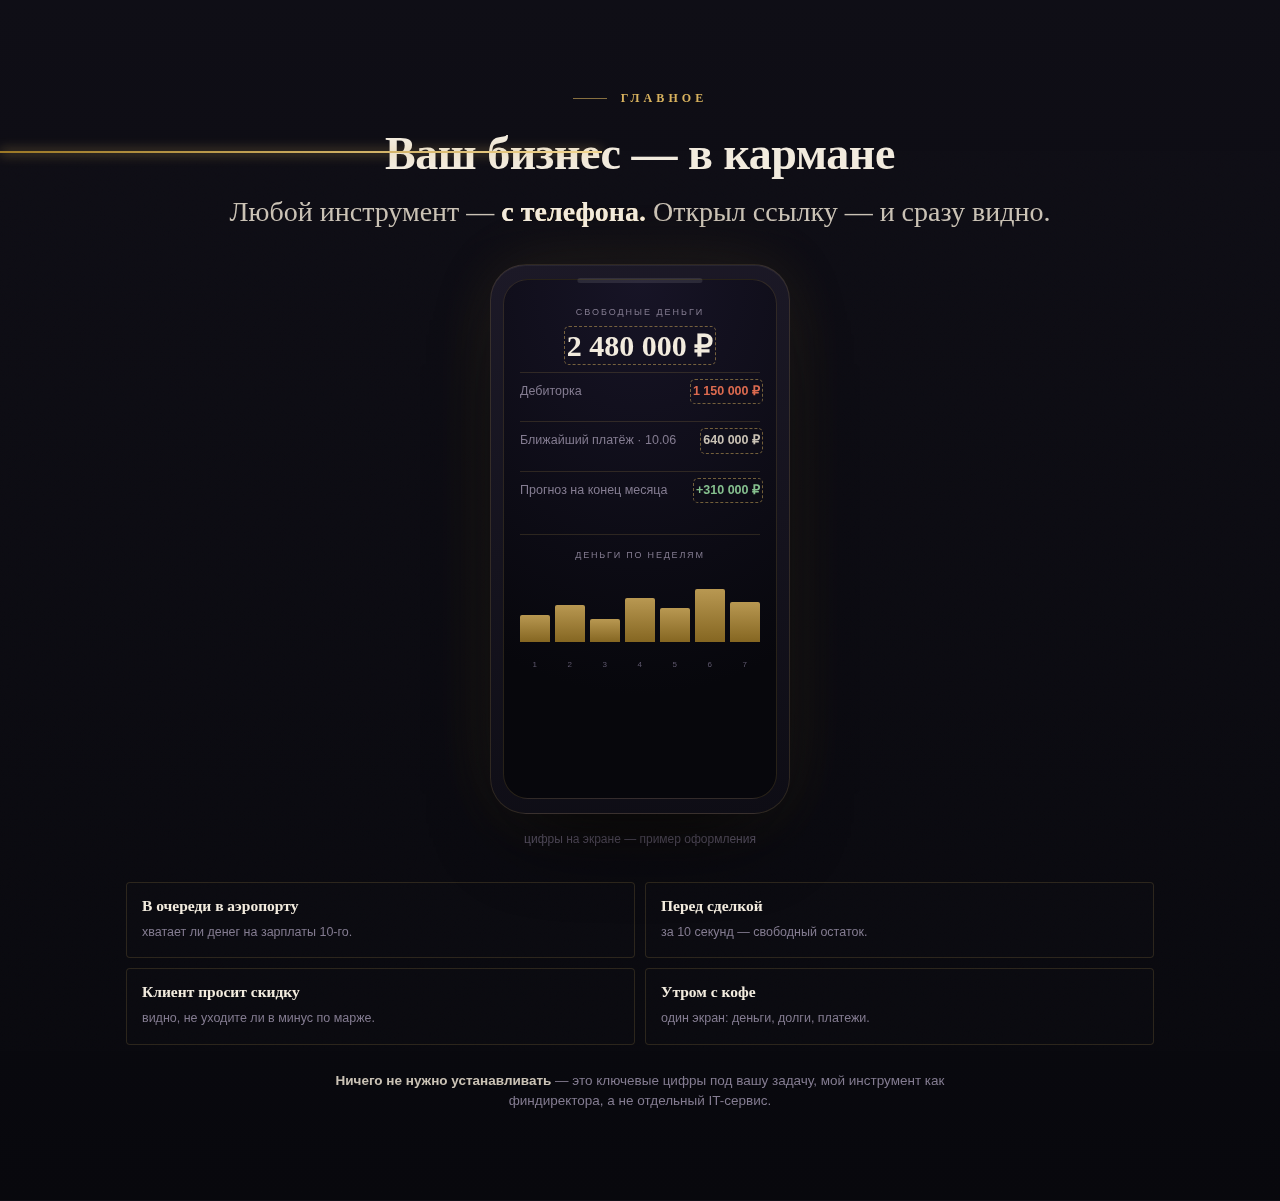
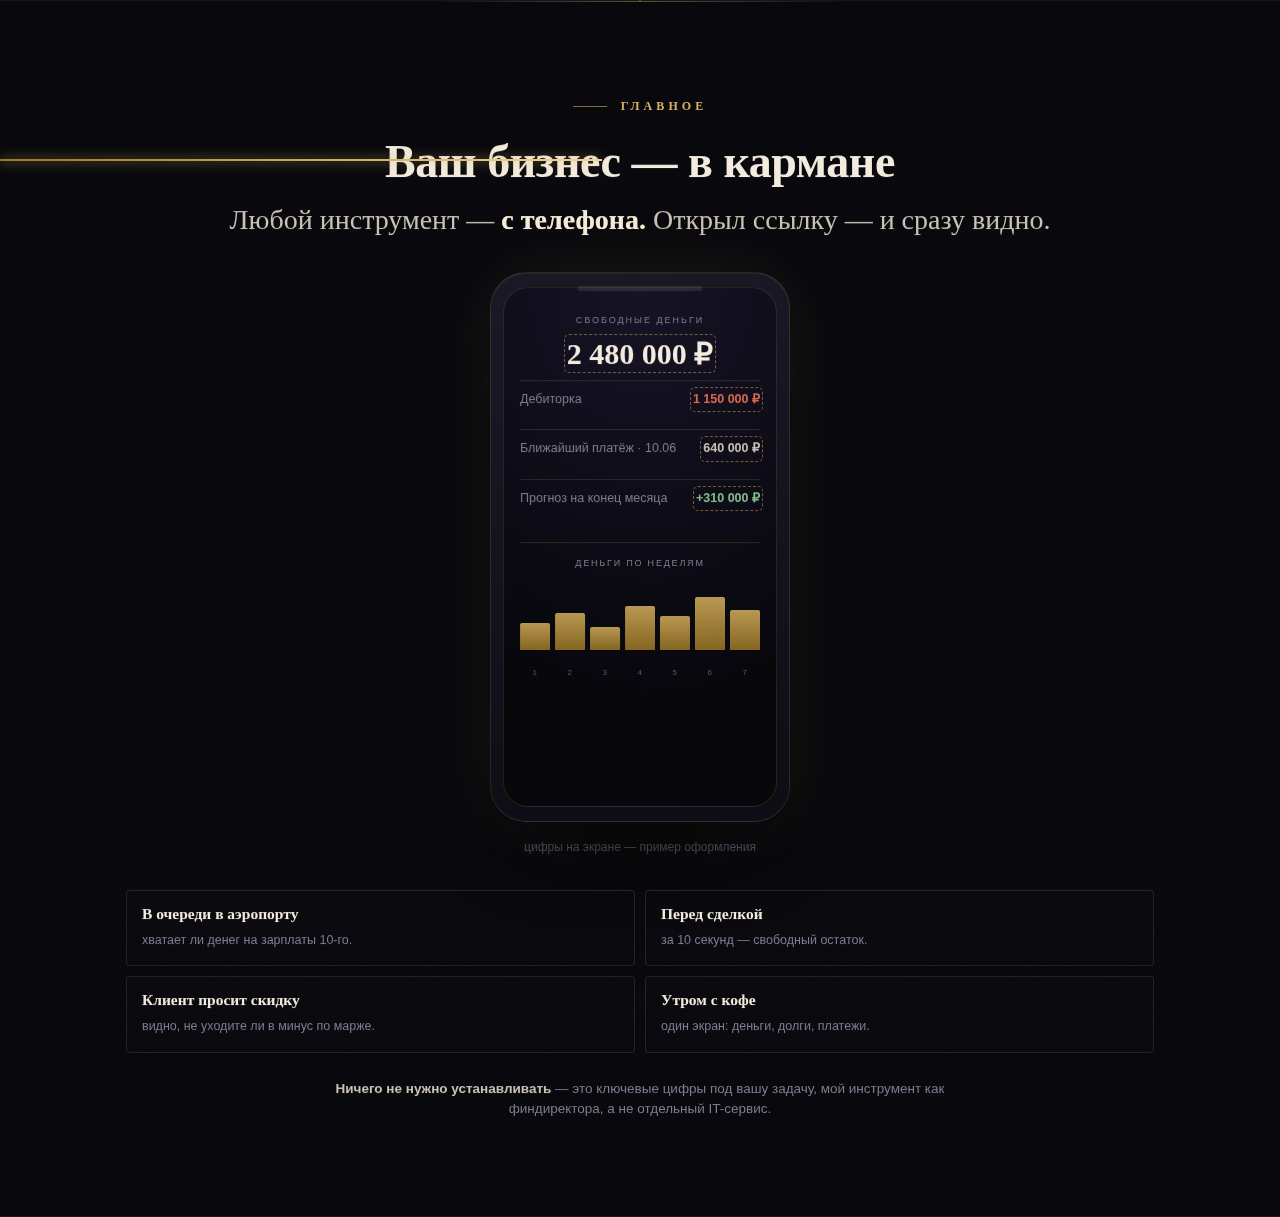
Section rhythm within the dark palette (no light sections)
Sections blended into one dark mass. Add deliberate rhythm — staying
fully finance-noir (dark + gold only):
- Alternate section depth: graphite (linear ink-2 → ink) ↔ near-black
  (void), every other section, so adjacent blocks read as distinct
  panels without any light/coloured backgrounds.
- Delicate gold dividers at a few joins (#core/#pocket/#tariffs/#faq):
  faded hairline + centred ✦ that 'breathes' between blocks.
- Slightly more air on the seams: section padding clamp(46-88) →
  clamp(54-96). Height barely moves (11418 → 11619px), the earlier
  cut is preserved.
Content and section order untouched — visual rhythm only.

screenshots: regenerate + add rhythm-1..4 boundary frames.

diff --git a/index.html b/index.html
@@ -31,7 +31,17 @@
   h1,h2,h3,.serif{font-family:'Playfair Display',serif;line-height:1.02;letter-spacing:-.01em}
   .wrap{max-width:1080px;margin:0 auto;padding:0 26px;position:relative;z-index:3}
   .narrow{max-width:780px}
-  section{padding:clamp(46px,8vw,88px) 0;position:relative}
+  section{padding:clamp(54px,8.5vw,96px) 0;position:relative}
+
+  /* ===== РИТМ СЕКЦИЙ: чередование глубины тёмного + деликатные разделители ===== */
+  /* графитовая секция — заметно глубже void, но остаётся тёмной */
+  .tone-b{background:linear-gradient(180deg,var(--ink-2),var(--ink))}
+  /* «дыхание» на стыке: золотой хайрлайн с затуханием к краям + засечка ✦ по центру */
+  .sep-top::after{content:"";position:absolute;top:0;left:50%;transform:translateX(-50%);
+    width:min(440px,72%);height:1px;z-index:4;
+    background:linear-gradient(90deg,transparent,rgba(216,178,94,.42) 50%,transparent)}
+  .sep-top::before{content:"✦";position:absolute;top:-9px;left:50%;transform:translateX(-50%);
+    z-index:4;color:var(--gold);font-size:12px;opacity:.7;line-height:1}
   .gold-text{background:linear-gradient(110deg,var(--gold-bright),var(--gold) 45%,var(--gold-deep));
     -webkit-background-clip:text;background-clip:text;color:transparent}
   .kick{font-family:'Manrope';font-size:12px;font-weight:700;letter-spacing:.34em;text-transform:uppercase;
@@ -115,13 +125,13 @@
   .manifesto .hl{font-style:italic}
 
   /* ============ СНЯТИЕ СТЫДА ============ */
-  .shame{background:linear-gradient(180deg,var(--coal),var(--void))}
+  .shame{background:var(--void)}
   .shame p{font-family:'Playfair Display';font-size:clamp(20px,3.4vw,32px);font-weight:500;
     line-height:1.42;color:var(--cream-dim);max-width:780px}
   .shame b{color:var(--cream);font-weight:700}
 
   /* ============ ЯДРО — МИНИ-АУДИТ ============ */
-  .core{background:linear-gradient(180deg,var(--void),var(--coal))}
+  .core{background:linear-gradient(180deg,var(--ink-2),var(--ink))}
   .core-grid{display:grid;grid-template-columns:1fr 1fr;gap:48px;align-items:start}
   @media(max-width:880px){.core-grid{grid-template-columns:1fr;gap:36px}}
 
@@ -242,7 +252,7 @@
   .get span{font-size:12.5px;color:var(--muted);line-height:1.4}
 
   /* ============ В КАРМАНЕ + МОКАП ============ */
-  .pocket{background:linear-gradient(180deg,var(--coal),var(--void));text-align:center}
+  .pocket{background:var(--void);text-align:center}
   .pocket .kick{justify-content:center}
   .pocket-lead{font-family:'Playfair Display';font-size:clamp(19px,3.4vw,28px);font-weight:500;
     color:var(--cream-dim);margin-bottom:30px}
@@ -518,7 +528,7 @@
 </section>
 
 <!-- ====== БОЛЬ ====== -->
-<section class="manifesto" id="s1">
+<section class="manifesto tone-b" id="s1">
   <div class="wrap narrow">
     <p class="reveal" data-rv="up">
       Деньги редко уходят разом. <b>Они задерживаются тихо</b>, пока вы заняты делом:
@@ -540,7 +550,7 @@
 </section>
 
 <!-- ====== ЯДРО: МИНИ-АУДИТ ====== -->
-<section class="core" id="core">
+<section class="core sep-top" id="core">
   <div class="wrap">
     <div class="kick">Экспресс-диагностика</div>
     <h2 class="serif reveal" data-rv="left"
@@ -638,7 +648,7 @@
 </section>
 
 <!-- ====== ЧТО ВЫ ПОЛУЧАЕТЕ (объединённый блок) ====== -->
-<section style="background:linear-gradient(180deg,var(--void),var(--coal))" id="tools">
+<section class="tone-b" id="tools">
   <div class="wrap">
     <div class="kick">Результат</div>
     <h2 class="serif reveal" data-rv="left"
@@ -660,7 +670,7 @@
 </section>
 
 <!-- ====== ВАШ БИЗНЕС — В КАРМАНЕ ====== -->
-<section class="pocket" id="pocket">
+<section class="pocket sep-top" id="pocket">
   <div class="wrap">
     <div class="kick">Главное</div>
     <h2 class="serif reveal" data-rv="up"
@@ -702,7 +712,7 @@
 </section>
 
 <!-- ====== AI-АВТОМАТИЗАЦИЯ ====== -->
-<section style="background:linear-gradient(180deg,var(--coal),var(--void))" id="ai">
+<section class="tone-b" id="ai">
   <div class="wrap">
     <div class="kick">AI-автоматизация</div>
     <h2 class="serif reveal" data-rv="left"
@@ -726,7 +736,7 @@
 </section>
 
 <!-- ====== КАК РАБОТАЕМ ====== -->
-<section style="background:linear-gradient(180deg,var(--void),var(--coal))" id="process">
+<section id="process">
   <div class="wrap narrow">
     <div class="kick">Процесс</div>
     <h2 class="serif reveal" data-rv="left"
@@ -748,7 +758,7 @@
 </section>
 
 <!-- ====== ТАРИФЫ ====== -->
-<section id="tariffs">
+<section class="tone-b sep-top" id="tariffs">
   <div class="wrap">
     <div class="kick">Форматы работы</div>
     <h2 class="serif reveal" data-rv="left"
@@ -839,7 +849,7 @@
 </section>
 
 <!-- ====== FAQ ====== -->
-<section style="background:linear-gradient(180deg,var(--void),var(--coal))" id="faq">
+<section class="tone-b sep-top" id="faq">
   <div class="wrap narrow">
     <div class="kick">Сомнения</div>
     <h2 class="serif reveal" data-rv="left"
